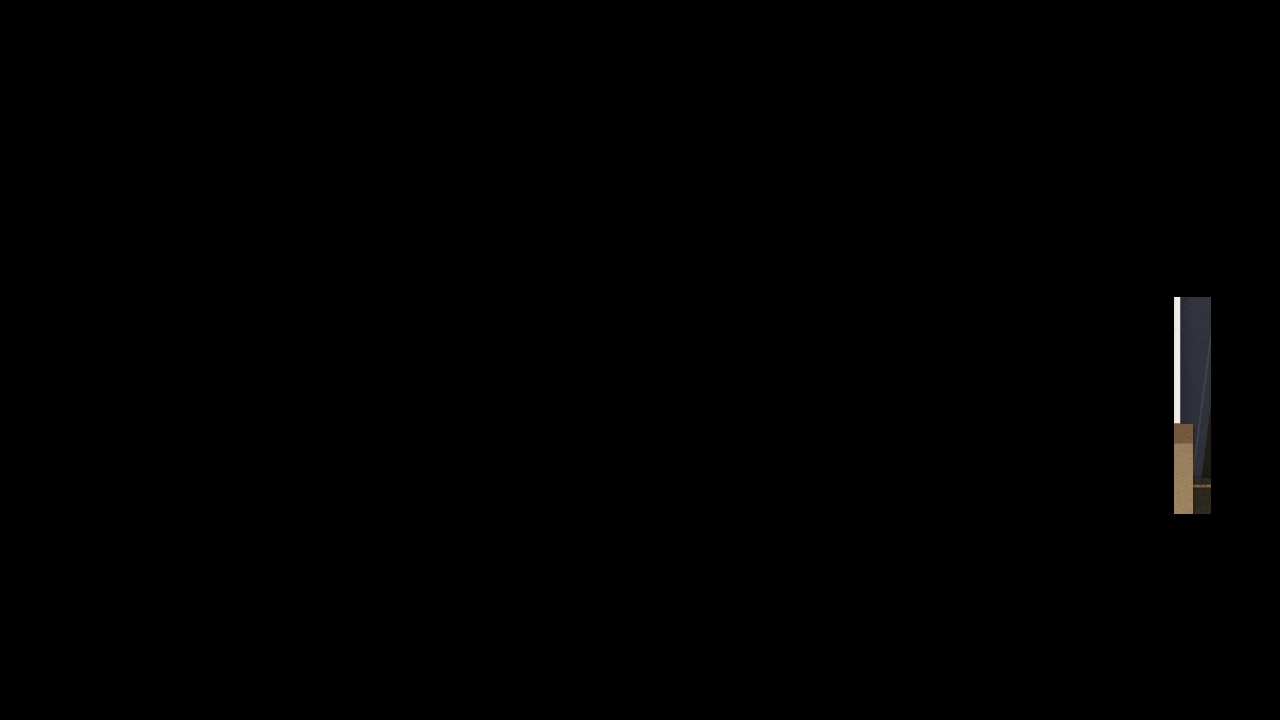
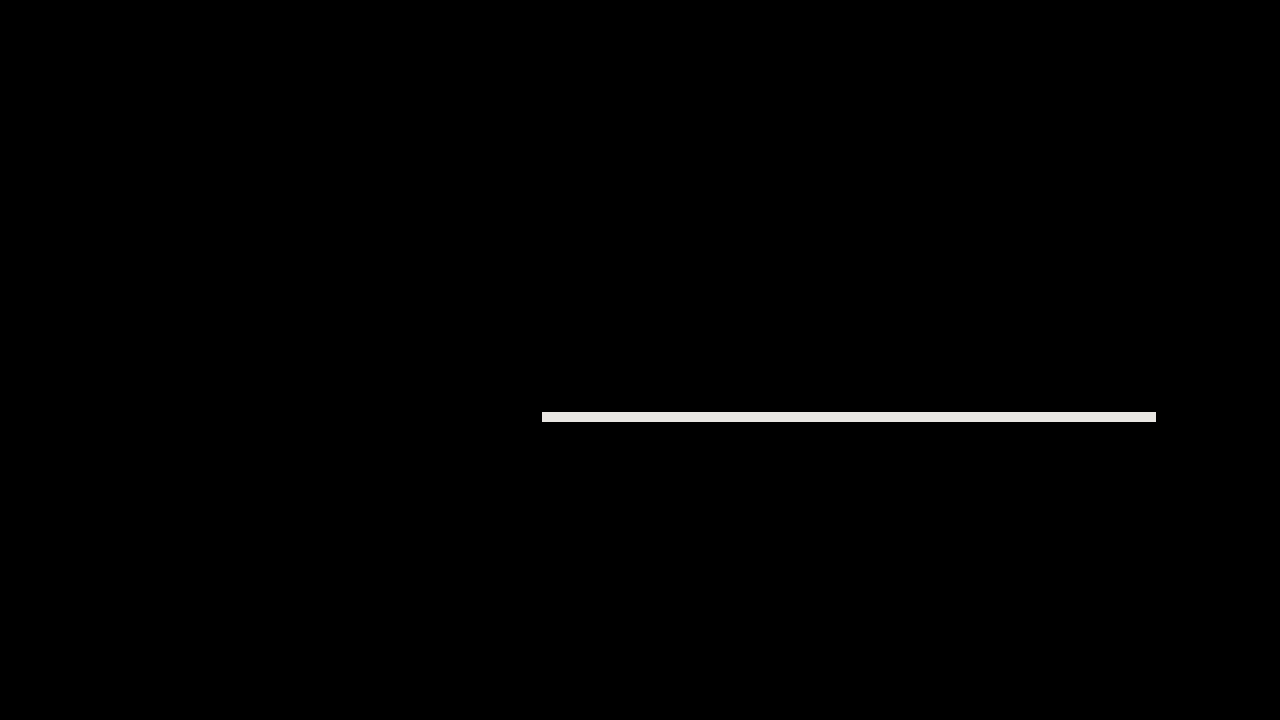
Fix: ASSIGNMENT_STARTED_CHECK

Changed region(s): [[0.4062, 0.3972, 0.9688, 0.7333]]

diff --git a/tasks/assignment/assets/assets_assignment_dispatch.py b/tasks/assignment/assets/assets_assignment_dispatch.py
@@ -24,10 +24,10 @@ ASSIGNMENT_STARTED_CHECK = ButtonWrapper(
     name='ASSIGNMENT_STARTED_CHECK',
     share=Button(
         file='./assets/share/assignment/dispatch/ASSIGNMENT_STARTED_CHECK.png',
-        area=(1174, 297, 1211, 514),
-        search=(1154, 277, 1231, 534),
-        color=(86, 81, 78),
-        button=(1174, 297, 1211, 514),
+        area=(542, 412, 1156, 422),
+        search=(522, 392, 1176, 442),
+        color=(232, 230, 226),
+        button=(542, 412, 1156, 422),
     ),
 )
 CHARACTER_1 = ButtonWrapper(

diff --git a/tasks/assignment/assignment.py b/tasks/assignment/assignment.py
@@ -58,7 +58,8 @@ class Assignment(AssignmentClaim, SynthesizeUI):
                                f'{", ".join([x.name for x in undispatched[remain:]])}')
             elif remain > len(undispatched):
                 self._dispatch_remain(duration, remain - len(undispatched))
-
+        # Refresh dashboard before return
+        _ = self._limit_status
         # Scheduler
         logger.attr('has_new_dispatch', self.has_new_dispatch)
         with self.config.multi_set():

diff --git a/tasks/assignment/dispatch.py b/tasks/assignment/dispatch.py
@@ -187,7 +187,6 @@ class AssignmentDispatch(AssignmentUI):
             else:
                 self.device.screenshot()
             # End
-            if not self.appear(ASSIGNMENT_START) and \
-                    self.match_template_color(ASSIGNMENT_STARTED_CHECK):
+            if self.match_color(ASSIGNMENT_STARTED_CHECK):
                 logger.info('Assignment started')
                 break
